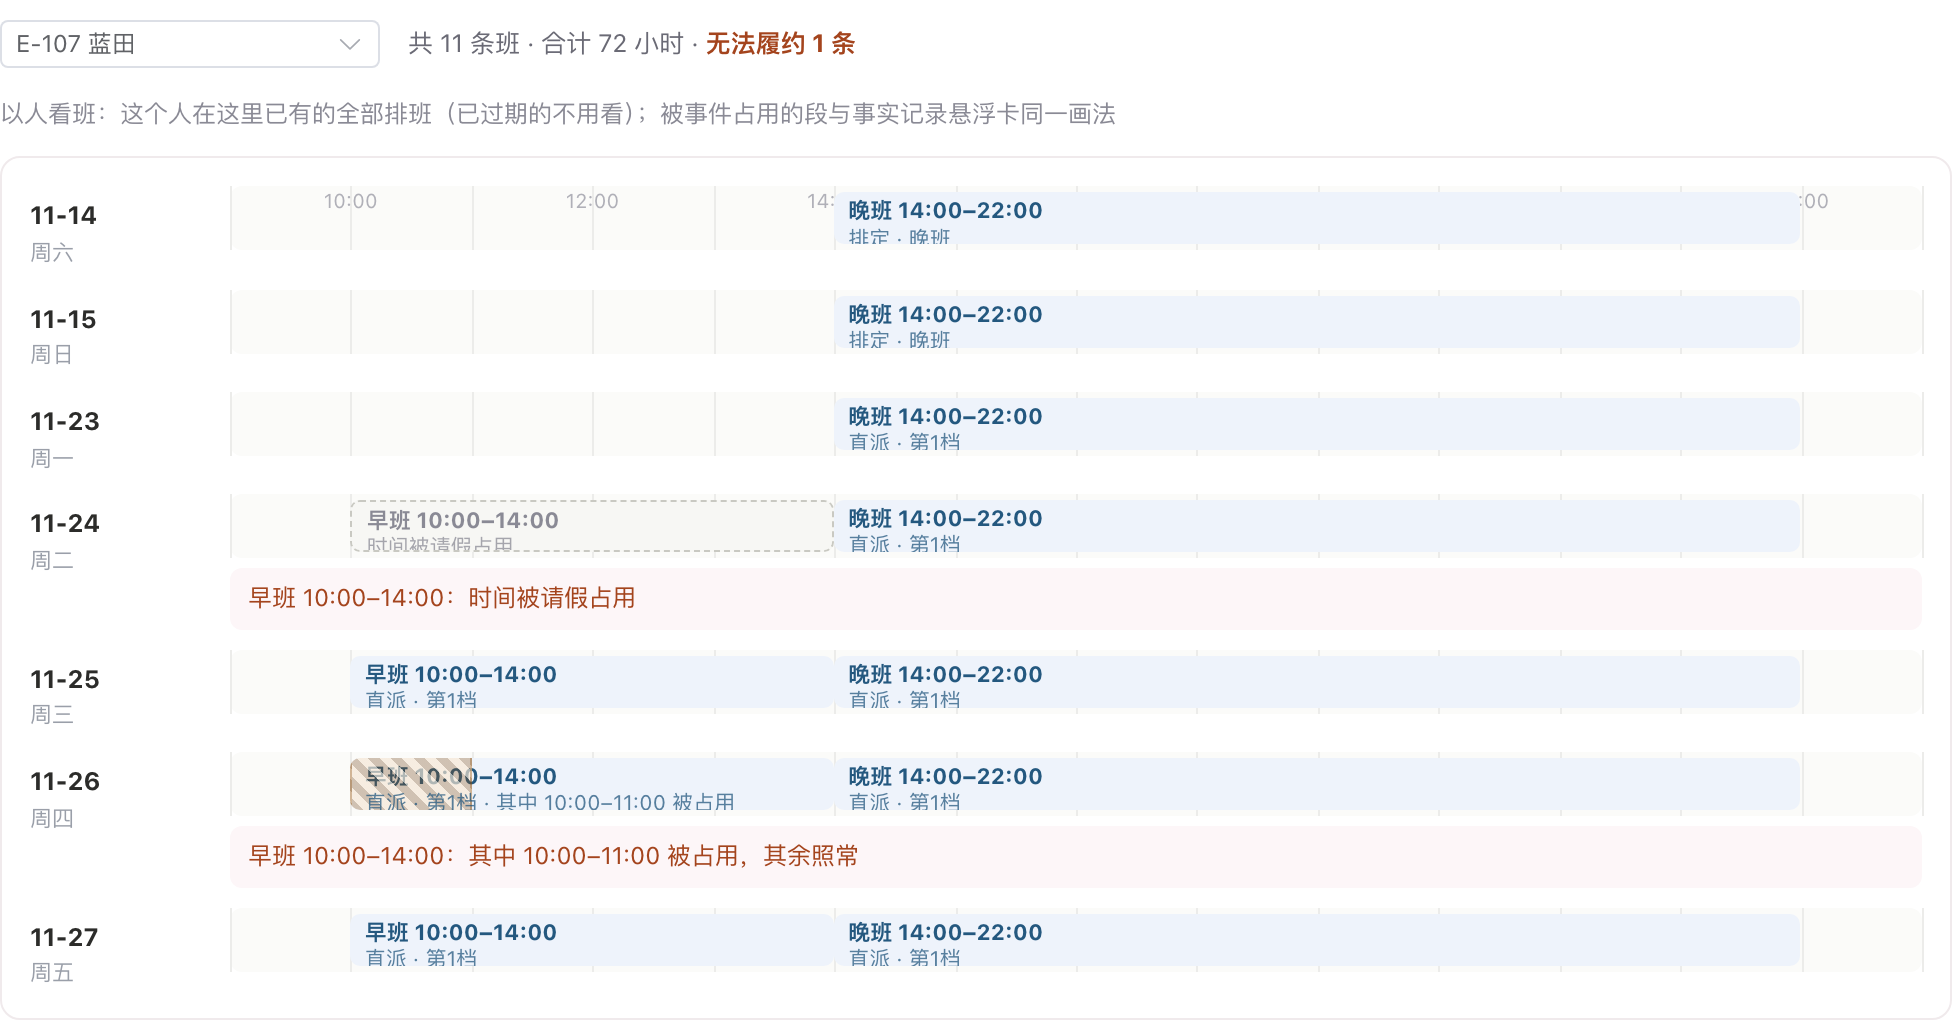
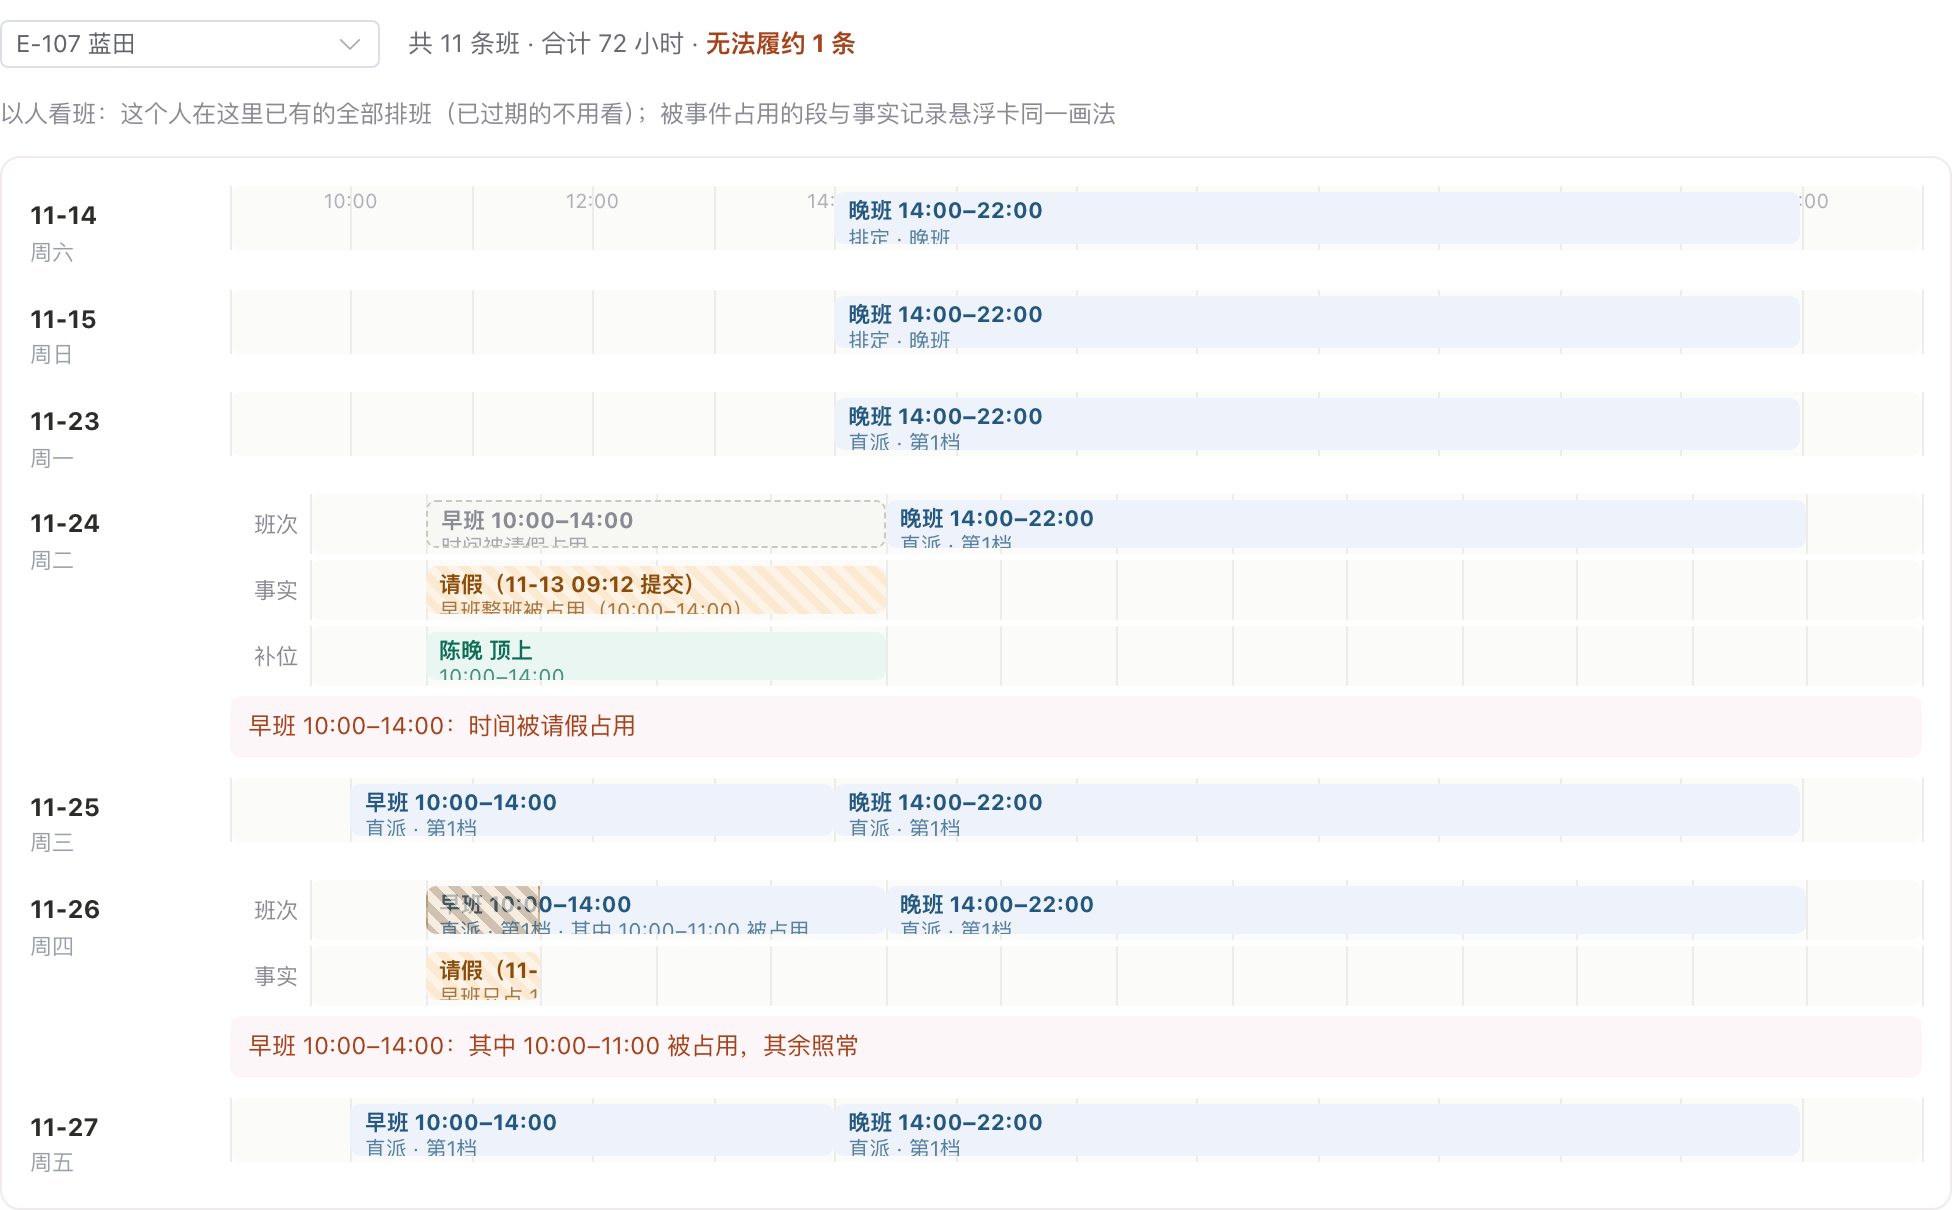
个人查询按天补齐悬浮卡的三行明细：班次 / 事实 / 补位
- 口径（文档先行，6.3.5 按天时间轴行同步）：与 6.4.1 悬浮卡同一画法同一口径——有事实/补位的日子按行分行（行标签在左），没有就只画一行班次
- 页面：meDays 保留 bandsForPersonDay 的全部行（原来只取班次行丢掉了事实/补位）；多行日分行渲染（班次/事实/补位标签列 + 各自 track），单行日维持原样；meAxis 算全部行的范围；钟点标签落在第一天第一行
- v5-me.png 重截：11-24 三行（请假事实 + 陈晚顶上）、11-26 两行（部分占用）均正确

diff --git a/src/views/ScheduleV5.vue b/src/views/ScheduleV5.vue
@@ -838,7 +838,24 @@
                 <em>周{{ DAY_NAMES[new Date(d.date + 'T00:00:00').getDay()] }}</em>
               </div>
               <div class="me-main">
-                <div class="tl-track me-track">
+                <!-- 只有一行（班次）就单行画；有事实/补位时按悬浮卡的行结构分行，行标签在左 -->
+                <template v-if="d.rows.length > 1">
+                  <div v-for="(r, ri) in d.rows" :key="d.date + r.label" class="me-line">
+                    <div class="me-rowlabel">{{ r.label }}</div>
+                    <div class="tl-track me-track">
+                      <i v-for="h in meAxis.ticks" :key="d.date + r.label + h" class="tl-tick" :style="{ left: mePct(h) }" />
+                      <template v-if="di === 0 && ri === 0">
+                        <b v-for="h in meAxis.labels" :key="'l' + h" class="tl-ticklabel" :style="{ left: mePct(h) }">{{ String(Math.floor(h / 60)).padStart(2, '0') }}:00</b>
+                      </template>
+                      <div v-for="b in r.bands" :key="d.date + r.label + b.text + b.s" class="tl-band" :class="b.cls" :style="{ left: mePct(b.s), width: meW(b) }">
+                        <i v-for="(m, mi) in b.marks || []" :key="'m' + mi" class="tl-occ" :style="{ left: ((m.s - b.s) / (b.e - b.s) * 100) + '%', width: ((m.e - m.s) / (b.e - b.s) * 100) + '%' }" />
+                        <strong>{{ b.text }}</strong>
+                        <span v-if="b.sub">{{ b.sub }}</span>
+                      </div>
+                    </div>
+                  </div>
+                </template>
+                <div v-else class="tl-track me-track">
                   <i v-for="h in meAxis.ticks" :key="d.date + 't' + h" class="tl-tick" :style="{ left: mePct(h) }" />
                   <template v-if="di === 0">
                     <b v-for="h in meAxis.labels" :key="'l' + h" class="tl-ticklabel" :style="{ left: mePct(h) }">{{ String(Math.floor(h / 60)).padStart(2, '0') }}:00</b>
@@ -1727,6 +1744,7 @@ const meDateList = computed(() => {
 const meDays = computed(() => {
   if (!mePid.value) return []
   return meDateList.value.map(date => {
+    /* 整天完整画：班次 / 事实 / 补位，与事实记录悬浮卡同一画法同一口径 */
     const rows = bandsForPersonDay(mePid.value, date)
     const bands = rows.find(r => r.label === '班次')?.bands || []
     /* 无法履约的明细：整条被占用 / 换出去的班写红字；只占一段的写明其余照常 */
@@ -1735,7 +1753,7 @@ const meDays = computed(() => {
       if (b.cls === 'covered' && !b.sub?.includes('换入')) blocked.push(`${b.text}：${b.sub}`)
       else if (b.marks?.length) blocked.push(`${b.text}：其中 ${b.marks.map(m => m.label).join('、')} 被占用，其余照常`)
     })
-    return { date, bands, blocked }
+    return { date, rows, bands, blocked }
   })
 })
 const meStats = computed(() => {
@@ -1749,7 +1767,7 @@ const meStats = computed(() => {
 })
 const meAxis = computed(() => {
   let t0 = 24 * 60, t1 = 0
-  meDays.value.forEach(d => d.bands.forEach(b => { t0 = Math.min(t0, b.s); t1 = Math.max(t1, b.e) }))
+  meDays.value.forEach(d => d.rows.forEach(r => r.bands.forEach(b => { t0 = Math.min(t0, b.s); t1 = Math.max(t1, b.e) })))
   if (t1 <= t0) return { t0: 480, t1: 1320, ticks: [], labels: [] }
   t0 = Math.max(0, Math.floor((t0 - 60) / 60) * 60)
   t1 = Math.min(24 * 60, Math.ceil((t1 + 60) / 60) * 60)
@@ -2363,6 +2381,9 @@ tr.covered td { color: #9a9fa9; }
 .me-day { font-size: 12.5px; color: #2c2c2a; padding-top: 6px; }
 .me-day em { display: block; font-style: normal; color: #9a9fa9; font-size: 11px; }
 .me-track { height: 32px; }
+.me-line { display: grid; grid-template-columns: 34px 1fr; gap: 6px; align-items: center; margin-bottom: 3px; }
+.me-line .me-track { height: 30px; }
+.me-rowlabel { font-size: 11px; color: #8a8a95; text-align: right; }
 .me-none { position: absolute; left: 8px; top: 50%; transform: translateY(-50%); font-size: 11px; color: #c0c0c8; }
 .me-blocked { margin: 5px 0 0; padding: 6px 9px; background: #fdf6f8; border-radius: 6px; }
 .me-blocked p { margin: 0; font-size: 12px; color: #a4441d; line-height: 1.55; }

diff --git a/src/views/hr-schedule/sections/HS63Result.vue b/src/views/hr-schedule/sections/HS63Result.vue
@@ -156,7 +156,7 @@
         </thead>
         <tbody>
           <tr><td><strong>人选择</strong></td><td>本空间人员下拉（工号 + 姓名），选人后按天出TA已有的全部班（已过期的不用显示）</td><td>数据来自排班结果表（唯一记录口）按人过滤，不新造口径</td></tr>
-          <tr><td><strong>按天时间轴</strong><br>（无法履约的明细）</td><td>每行一天：钟点轴上班次带（蓝 = 自己的班 / 顶上班，橙斜纹 = 被事件占用的段，换出的班标换给谁）</td><td>被占用段的画法与 6.4.1 悬浮卡一致；整条占用的班直接标「时间被请假占用」</td></tr>
+          <tr><td><strong>按天时间轴</strong><br>（无法履约的明细）</td><td>每行一天：钟点轴上的带子按 <strong>班次 / 事实 / 补位</strong> 分行（行标签在左）——蓝 = 自己的班 / 顶上班，橙斜纹 = 被事件占用的段，换出的班标换给谁；这天没有事实 / 补位就只画一行班次</td><td>与 6.4.1 悬浮卡同一画法同一口径；整条占用的班直接标「时间被请假占用」</td></tr>
           <tr><td><strong>明细行</strong></td><td>有占用的日子，行下红字写清楚：被哪条事实占用、谁来顶（整条 / 只顶某段、其余照常）</td><td>这是「无法履约」的明细表达——班还挂在名字上，但哪段不能去、谁在履约，一目了然</td></tr>
           <tr><td><strong>统计</strong></td><td>共 n 条班 · 合计 x 小时 · 无法履约 y 条</td><td>工时按班次带实际区间算（只顶一段按段算）；口径是全部已有的班，不是某一期</td></tr>
         </tbody>
